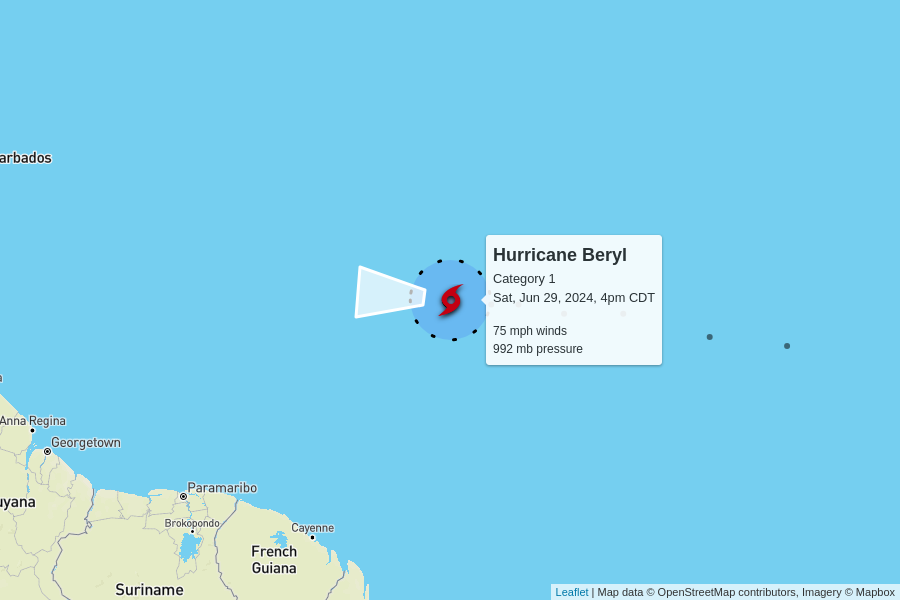
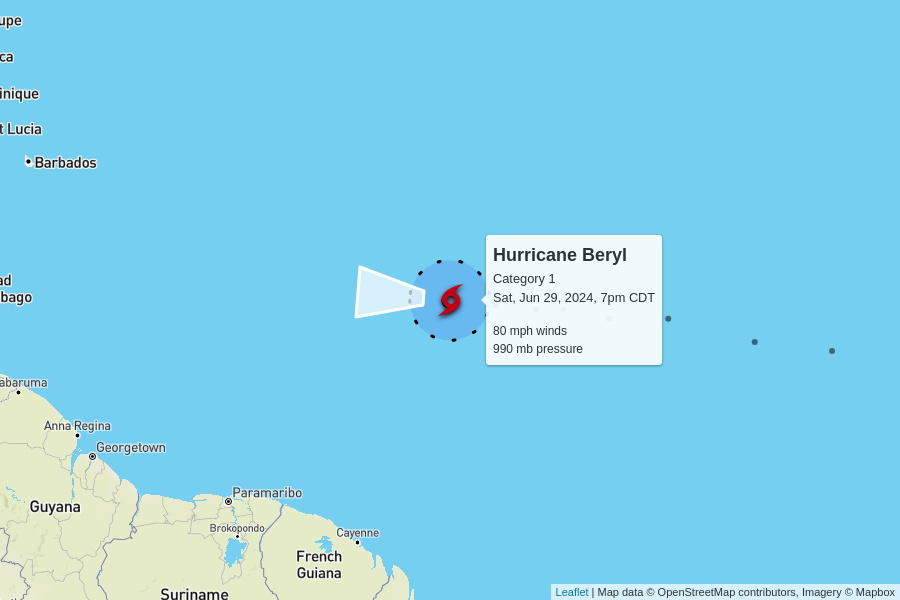
automatic update

diff --git a/docs/index.html b/docs/index.html
@@ -102,7 +102,7 @@
         <td colspan="6" class="storm category-1" >
           <h2>
             Hurricane Beryl - Category 1
-            <p class="updated">last updated <span data-time>2024-06-29T21:00:00.000Z</span></p>
+            <p class="updated">last updated <span data-time>2024-06-30T00:00:00.000Z</span></p>
           </h2>
         </td>
       </tr>
@@ -117,8 +117,8 @@
       </tr>
       <tr>
         <td class="spacer"></td>
-        <td>75 mph<br>+10 mph since last update</td>
-        <td>992 mb<br>-6 mb since last update</td>
+        <td>80 mph<br>+5 mph since last update</td>
+        <td>990 mb<br>-2 mb since last update</td>
         <td>
           22 mph to the west
           <br/>
